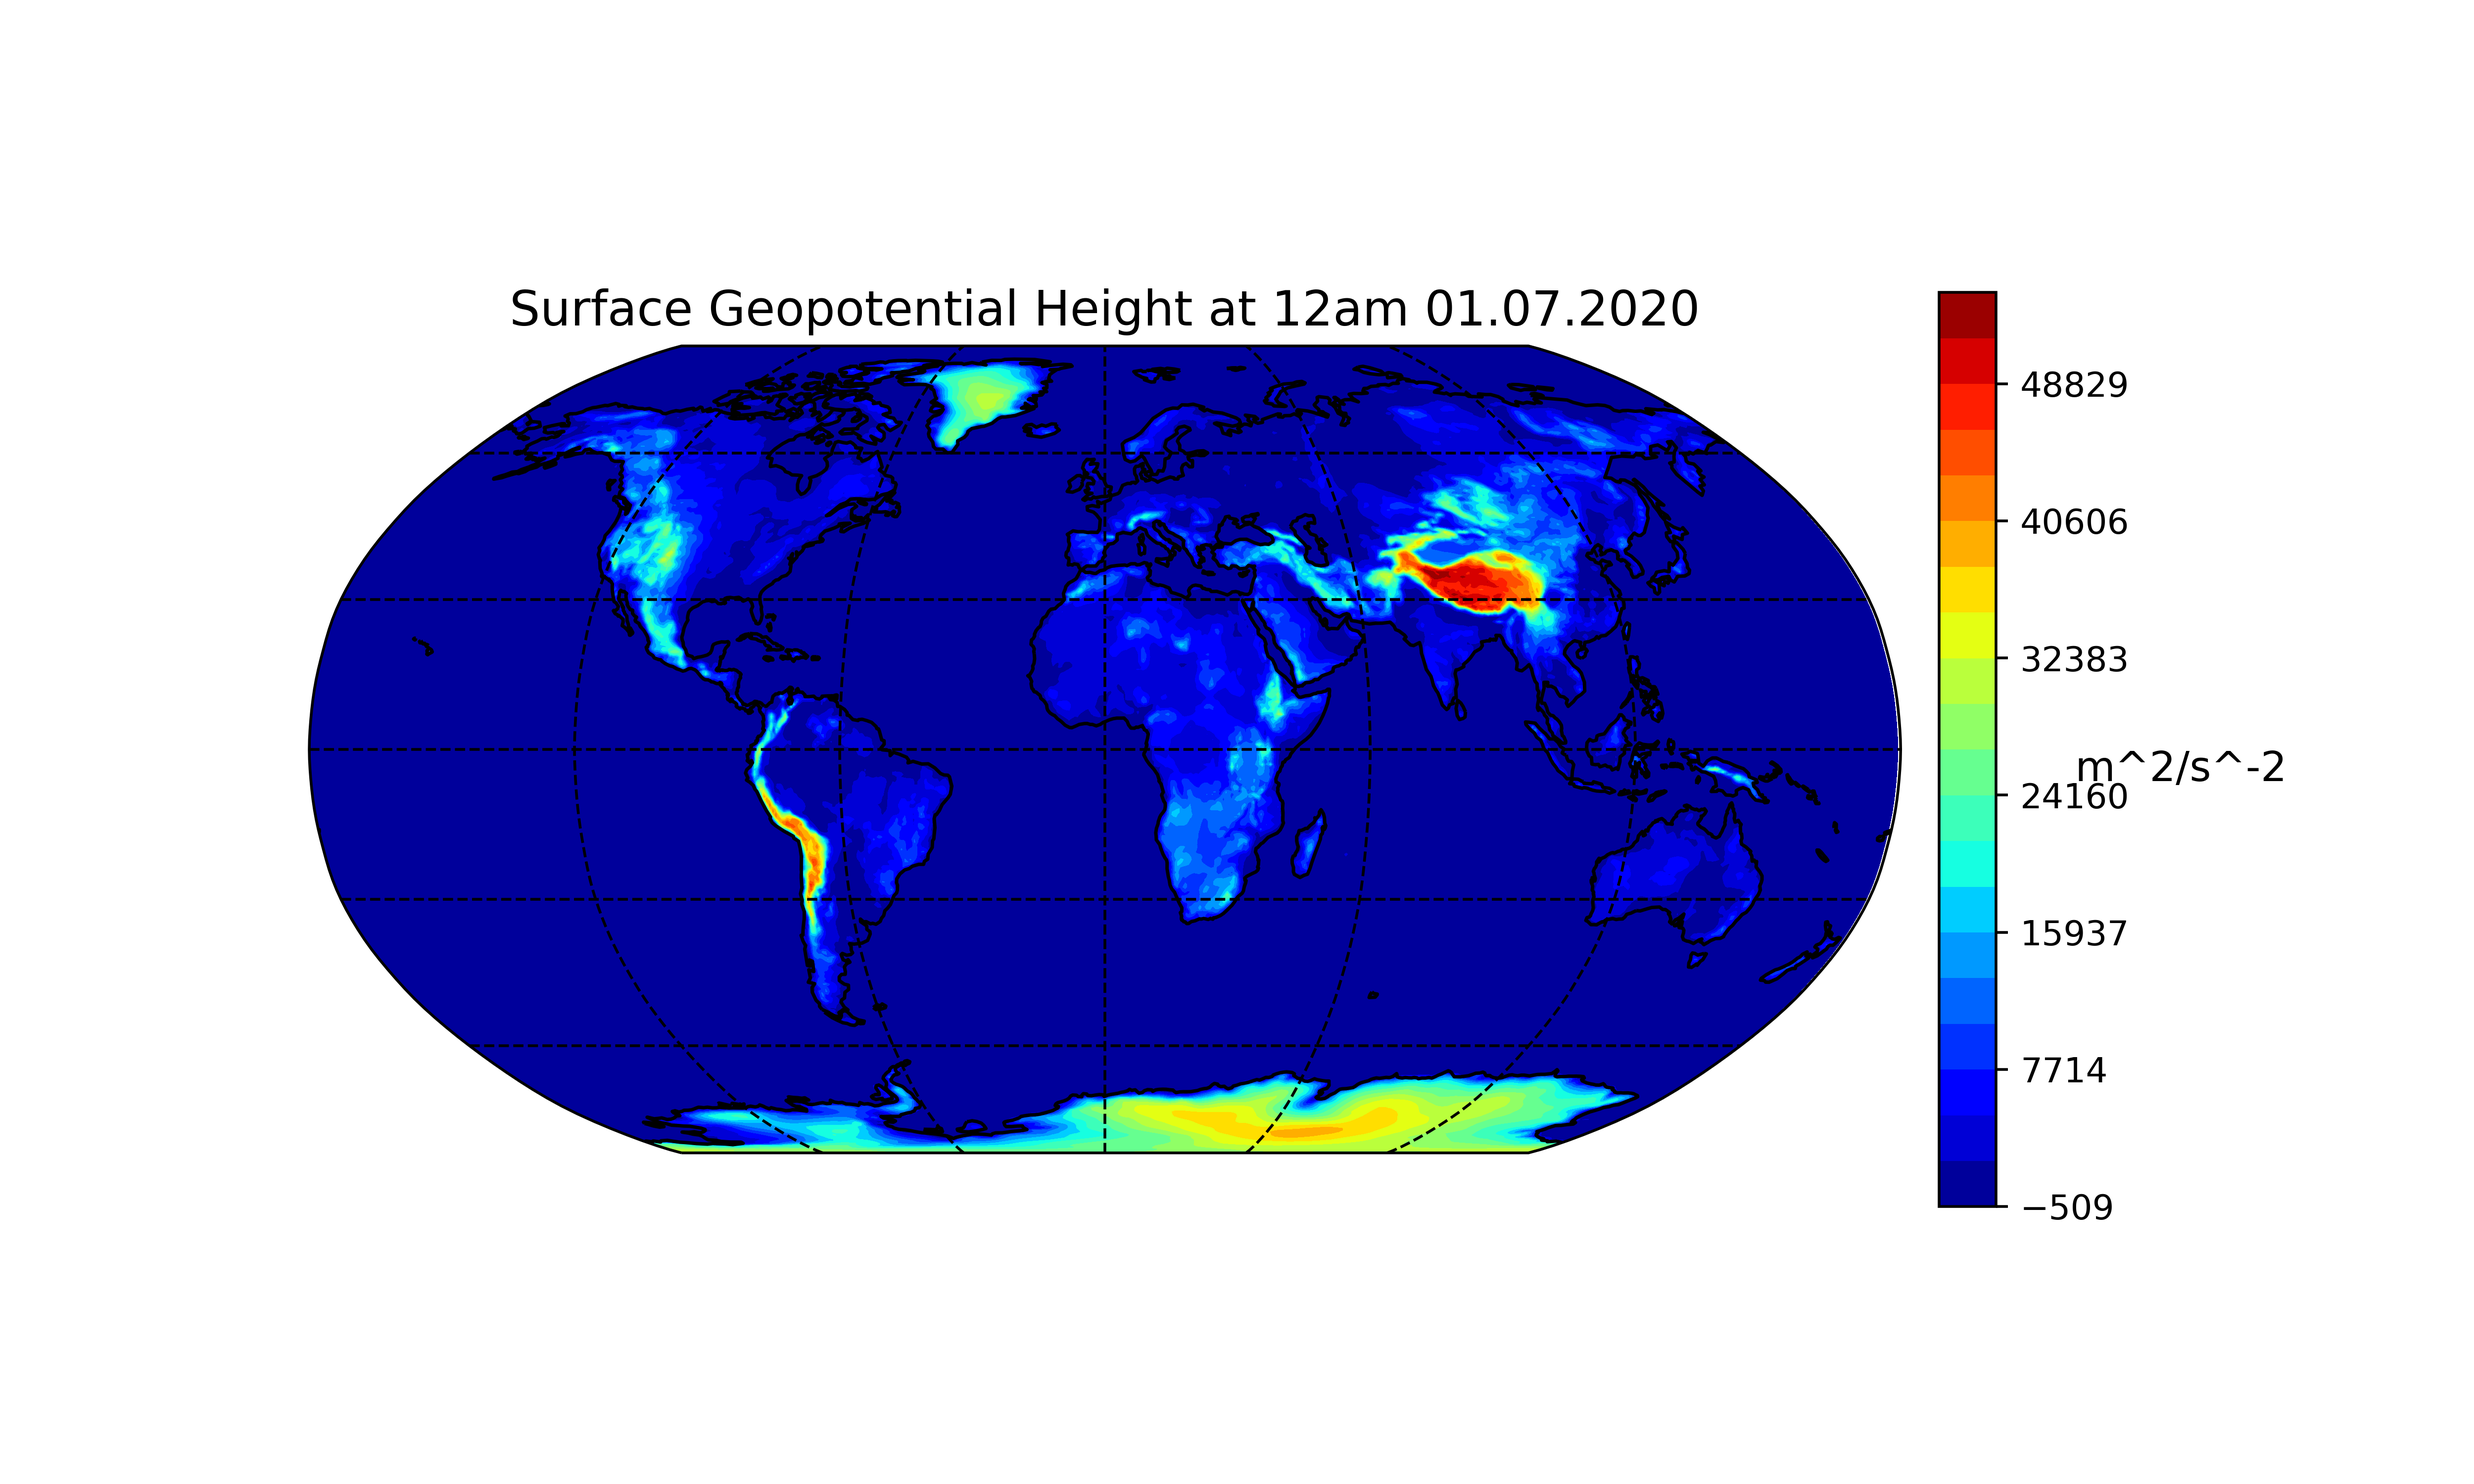
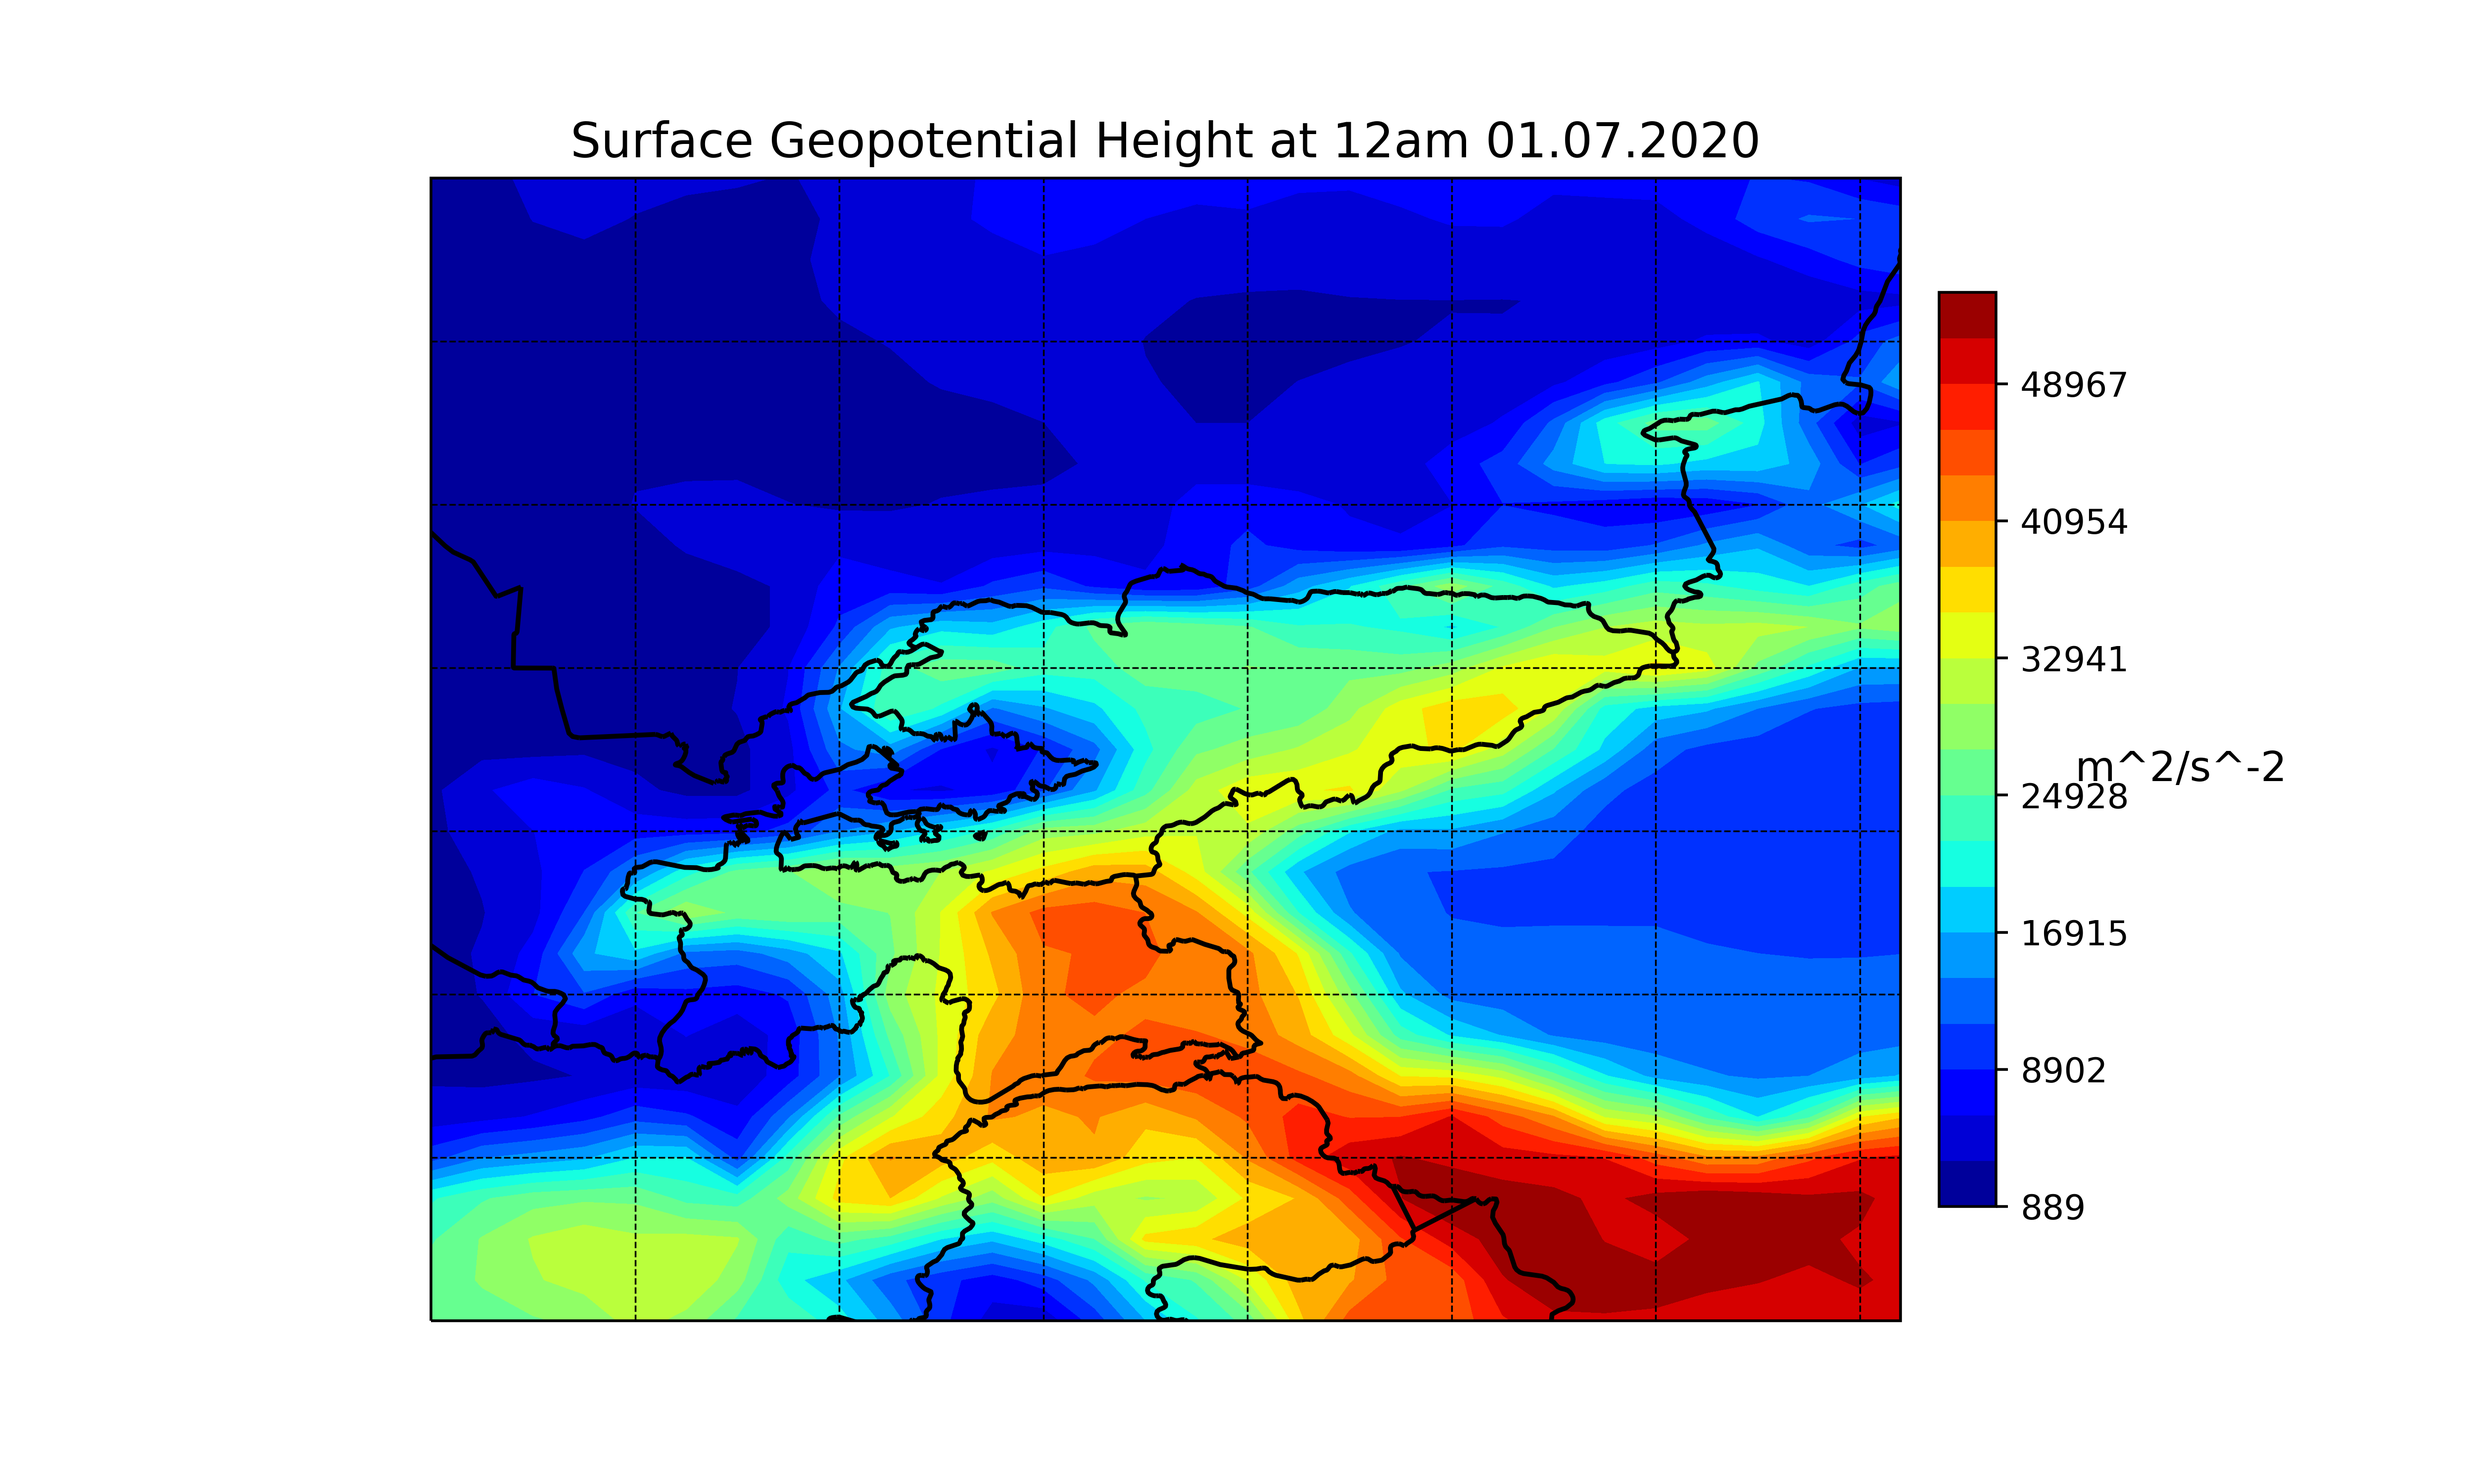
update diary; plot first maps of KG

diff --git a/programs/netcdf_plotter/main.py b/programs/netcdf_plotter/main.py
@@ -2,21 +2,32 @@
 # This is a sample Python script.
 # https://disc.gsfc.nasa.gov/information/howto?title=How%20to%20read%20and%20plot%20NetCDF%20MERRA-2%20data%20in%20Python
 
+# plotting stuff
+# https://scitools.org.uk/cartopy/docs/v0.15/matplotlib/advanced_plotting.html
+
+# cartopy
+# https://scitools.org.uk/cartopy/docs/latest/crs/projections.html
+
 from netCDF4 import Dataset
 import numpy as np
 import matplotlib.pyplot as plt
 import cartopy.crs as ccrs
+import cartopy.feature as cfeature
+# TODO: set up cli app
 # import fire
 
 import warnings
 
+# TODO: try to fix these warnings
 # this is needed because netcdf4 emits warnings that I cannot fix when printing
 # data
 warnings.filterwarnings("ignore", category=DeprecationWarning)
 # errors from mismatched libraries
 warnings.filterwarnings("ignore", category=RuntimeWarning)
 
-my_example_nc_file = '../.downloads/20200701.nc4'
+# TODO: make all of this modular
+
+my_example_nc_file = '../.downloads_2/20200701.nc4'
 file_format = 'png'
 file_dpi = 500
 
@@ -32,6 +43,7 @@ def read_var_info() -> {str: (str, str)}:
 
 
 # this as one option for the cli app -- list to see this
+# TODO: add unit to this
 def print_var_info(data_dict: {str: (str, str)}):
     for key in data_dict.keys():
         print(key)
@@ -41,6 +53,10 @@ def print_var_info(data_dict: {str: (str, str)}):
 
 def list():
     print_var_info(read_var_info())
+
+
+# TODO: read lon, lat info from file and plot accordingly
+#
 
 
 def create_graph(var: str, name: str):
@@ -55,10 +71,13 @@ def create_graph(var: str, name: str):
 
         # Set the figure size, projection, and extent
         fig = plt.figure(figsize=(10, 6))
-        ax = plt.axes(projection=ccrs.Robinson())
+
+        ax = plt.axes(projection=ccrs.PlateCarree())
         ax.set_global()
-        ax.coastlines(resolution="110m", linewidth=1)
-        ax.gridlines(linestyle='--', color='black')
+        ax.set_extent([65, 83, 34, 48], crs=ccrs.PlateCarree())
+        ax.add_feature(cfeature.BORDERS, linewidth=1.4)
+        ax.gridlines(linestyle='--', color='black', draw_labels=True,
+                     linewidth=0.5)
 
         res = int((max - min) / 20)
 
@@ -69,7 +88,9 @@ def create_graph(var: str, name: str):
 
         cb = plt.colorbar(ax=ax, orientation="vertical", pad=0.02, aspect=16,
                           shrink=0.8)
+
         cb.ax.tick_params(labelsize=10)
+        # TODO: make this more intelligent -- get time and date from file
         if name == 'ps':
             plt.title('Surface Pressure at 12am 01.07.2020', size=14)
             cb.set_label('Pa', size=12, rotation=0, labelpad=15)

diff --git a/programs/downloader/main.py b/programs/downloader/main.py
@@ -35,7 +35,7 @@ def parse_url_file(file: str) -> [(str, str)]:
             # find the last word and the file extension for the file name
             # e.g. extract '20200703.nc4' from the link
             # https://goldsmr5.gesdisc.eosdis.nasa.gov/data/MERRA2/M2I3NPASM.5.12.4/2020/07/MERRA2_400.inst3_3d_asm_Np.20200703.nc4
-            x = re.search(r"[^./_]+\....$", stripped_line)
+            x = re.search(r"[^./_]+\.nc4|[^./_]+\.pdf", stripped_line)
             # add a tuple of file name and url to the list
             url_list.append((x.group(), stripped_line))
     return url_list

diff --git a/TODO.md b/TODO.md
@@ -5,3 +5,4 @@
 - [x] write doc on how to use 
 - [x] send diary to advisor
 - [ ] write plotter for 1 var of netcdf
+- [ ] try out spyder
